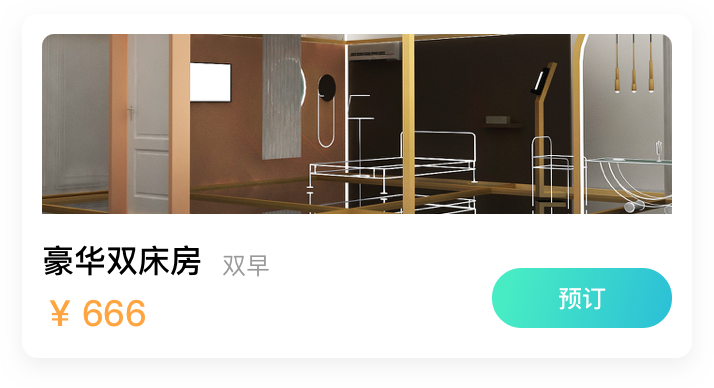
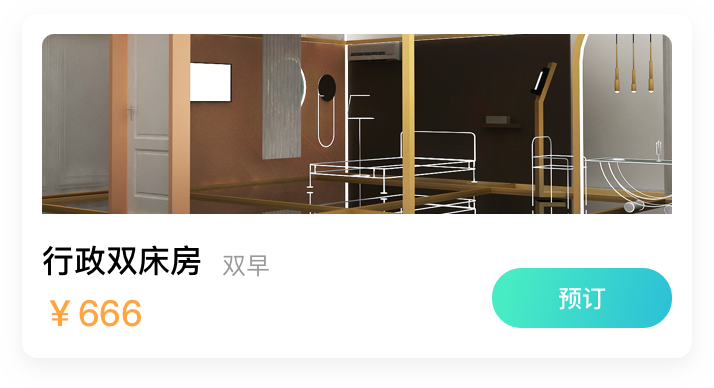
'更改房型'

diff --git a/src/views/bookDetail.vue b/src/views/bookDetail.vue
@@ -18,7 +18,7 @@
           <p>
             <span>
                   <img src="../assets/logo2.jpg" height="56" width="56"/>
-              标准房
+              行政双床
           </span>
             <span style="margin-left: 1rem">
               双早

diff --git a/src/views/book.vue b/src/views/book.vue
@@ -18,7 +18,7 @@
         <p>
           <span>
                 <img src="../assets/logo2.jpg" height="56" width="56"/>
-            标准房
+            行政双床
         </span>
           <span style="margin-left: 1rem">
             双早
